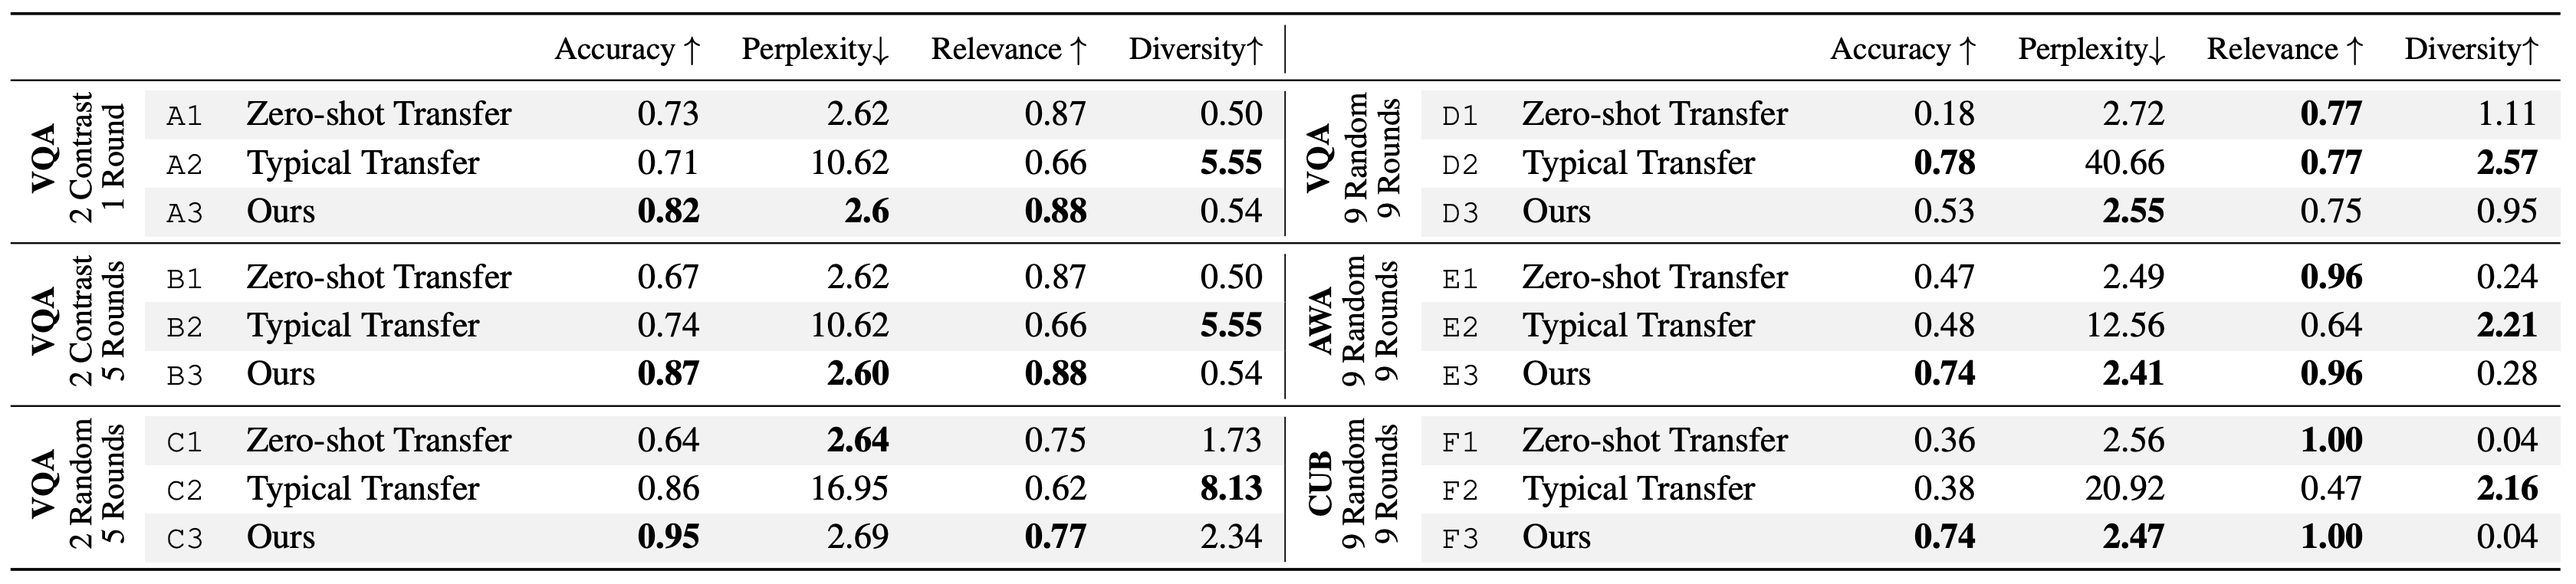
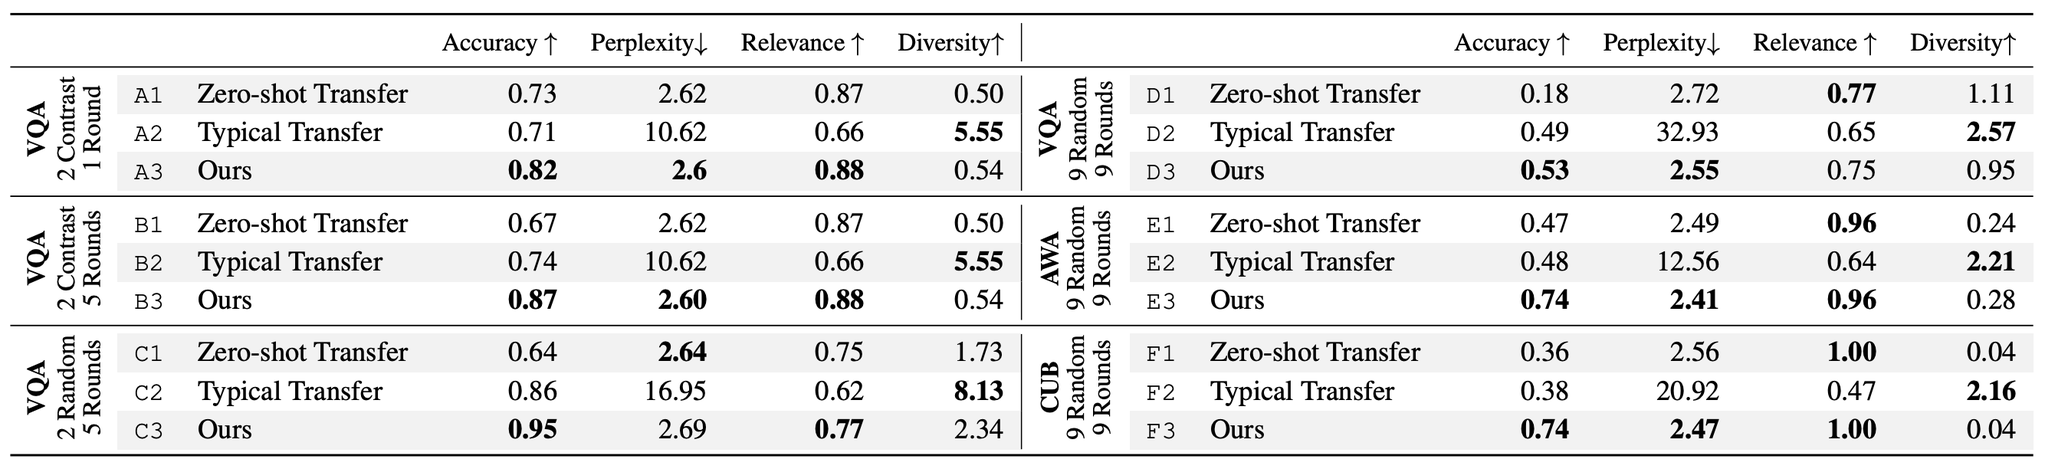
update table and add note about D2

diff --git a/README.md b/README.md
@@ -189,3 +189,9 @@ following figure.
 ![main results](images/table1.png)
 
 The above commands and experiment codes can be used to train and analyze the same models reported in this paper.
+
+* Note: Row D2 of the above table was an outlier in previous versions of the
+table. In running some of our analysis again we found an error in this row
+and provide an updated version in the current version of the table shown above.
+The updated version is more consistent with the trends we observed in the rest
+of the table.
